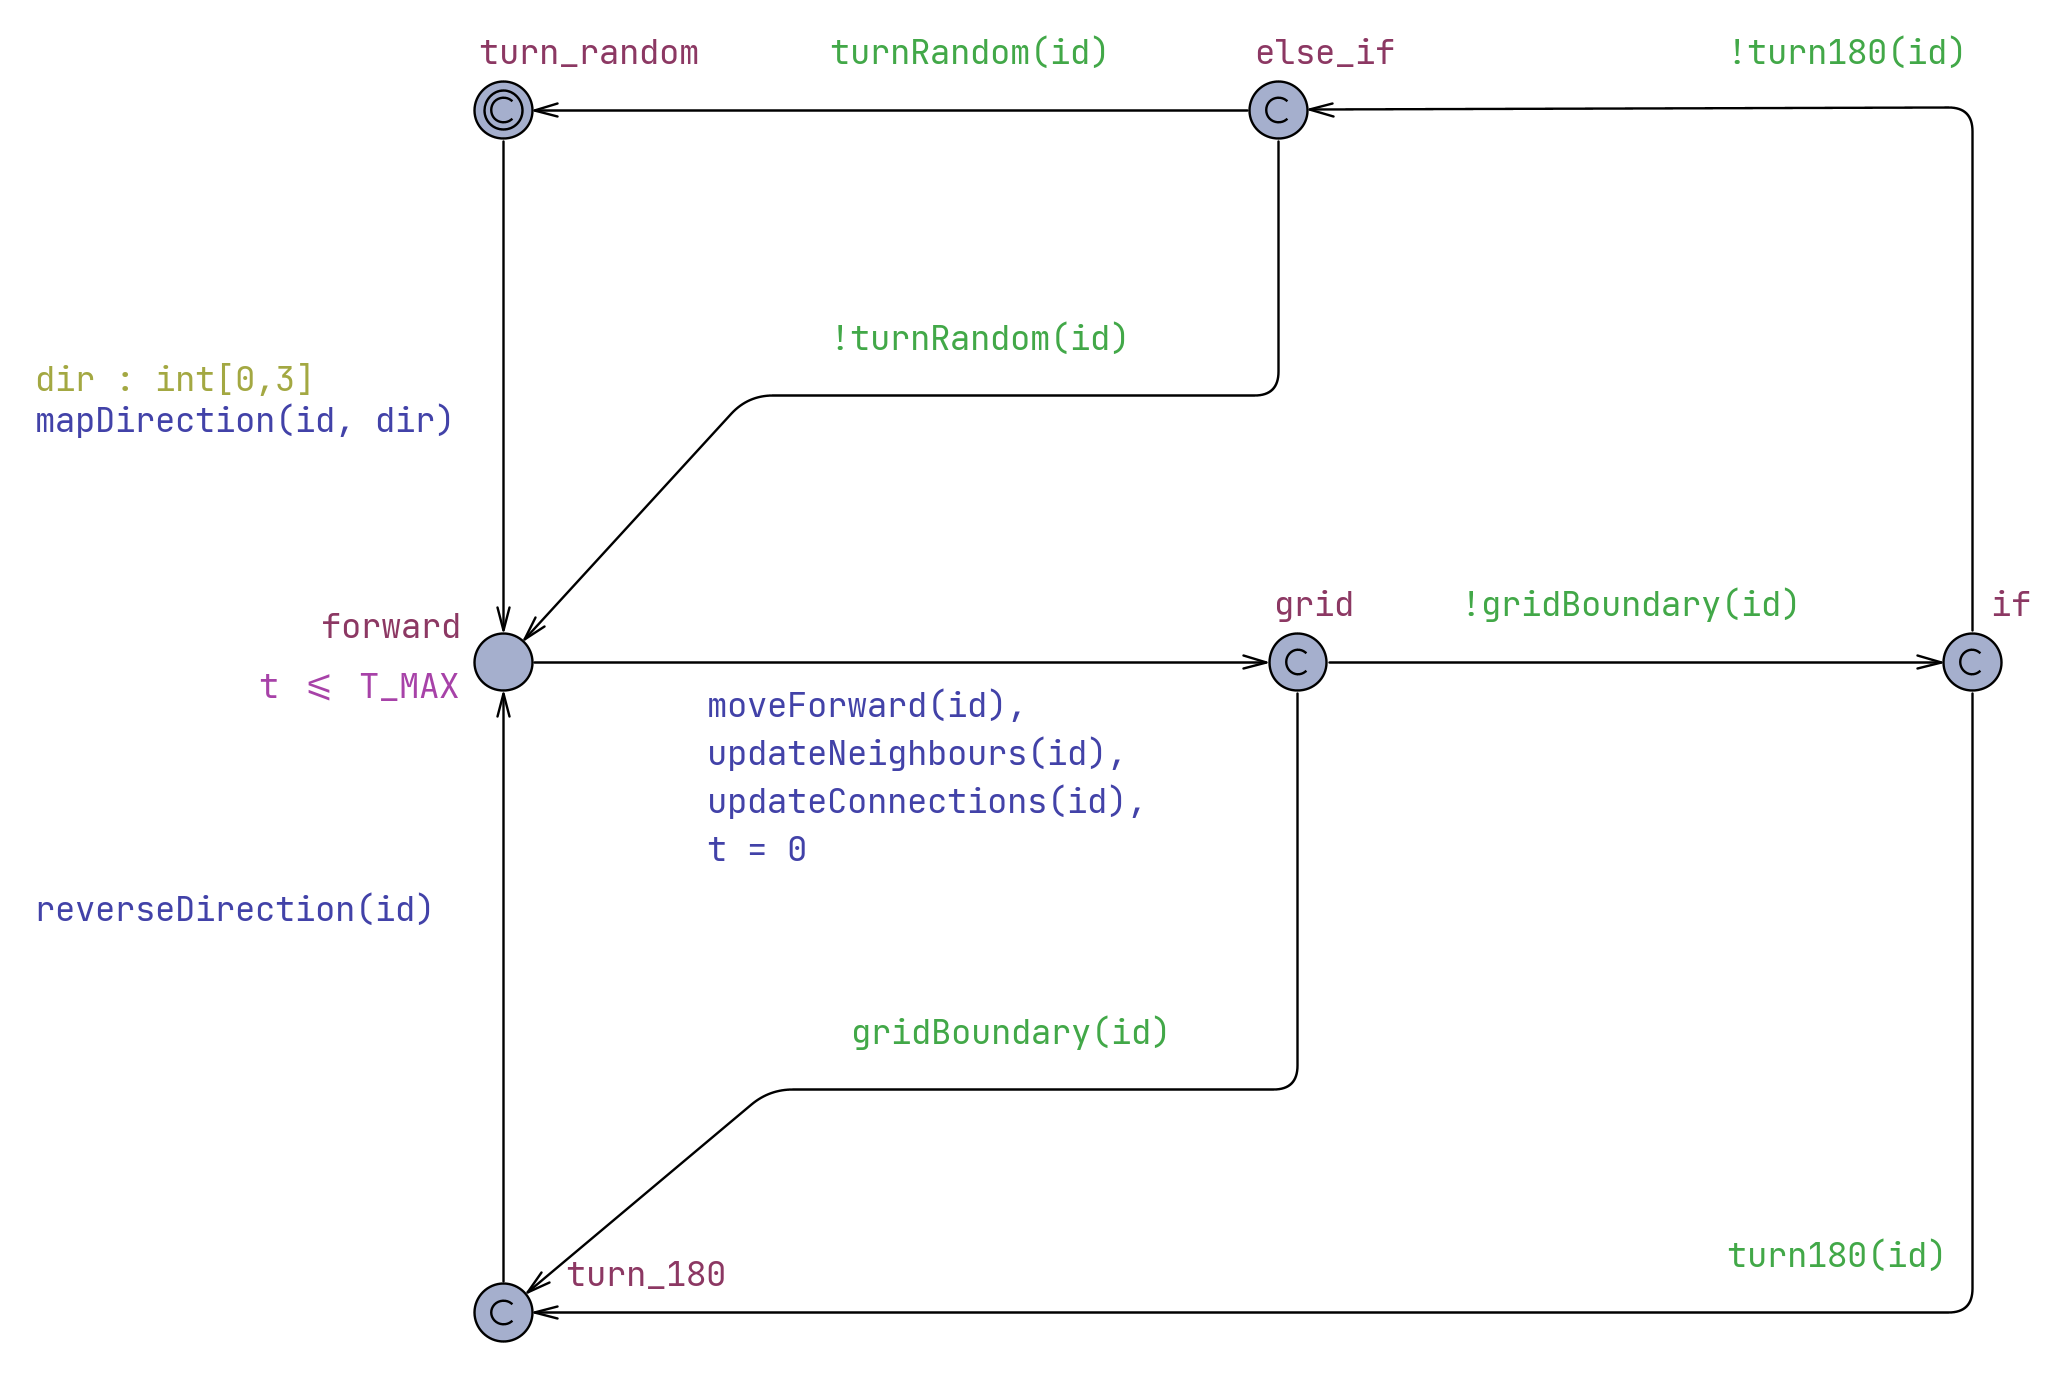
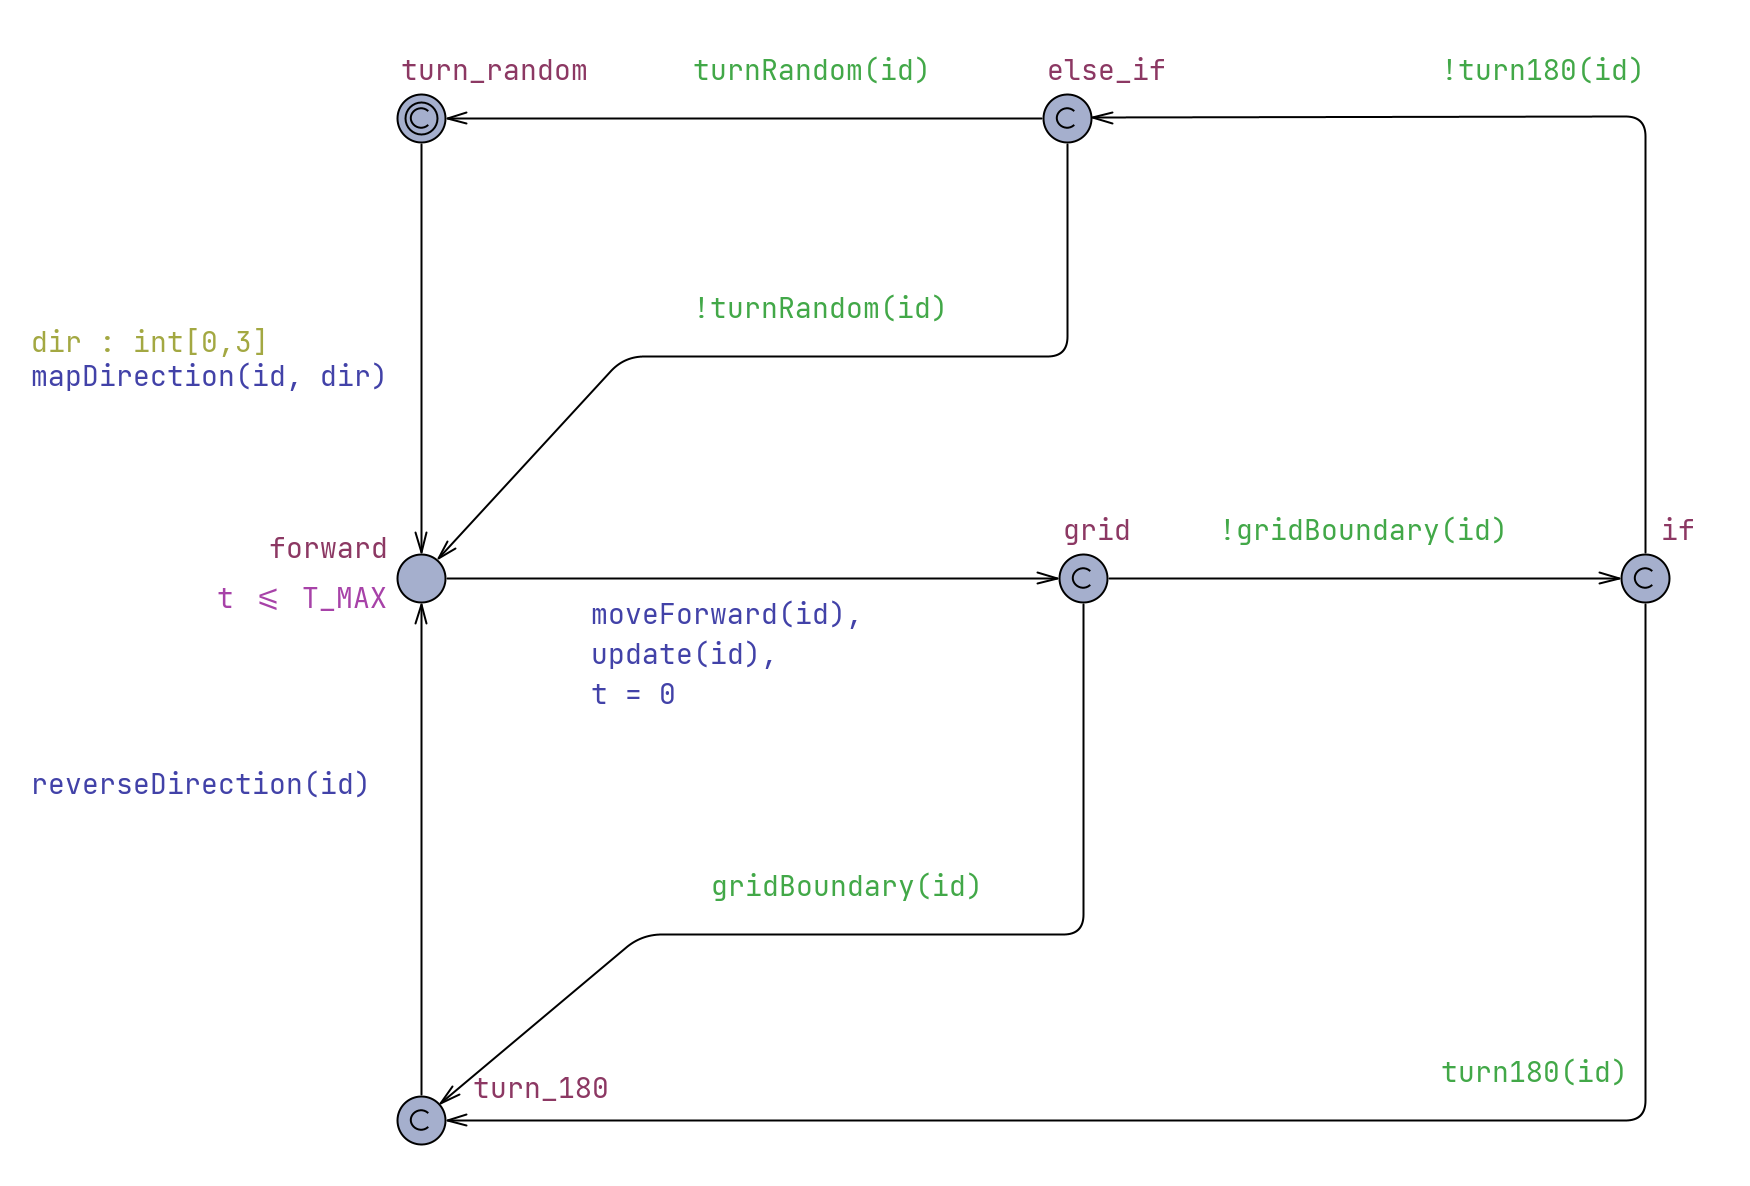
Week 44: unified the code between implementations, updated figures

diff --git a/Latex/Thesis/contents/implementation.tex b/Latex/Thesis/contents/implementation.tex
@@ -110,3 +110,5 @@ The connection part of the implementation focuses on two key tasks: simulating t
 \texttt{shared[N]} - number of shared neighbours with the lost neighbours;\\
 \texttt{k[N]} - number of connections for each robot;\\
 \texttt{last\_k[N]} - number of last connections for each robot;\\
+\\
+The \texttt{update} function updates all of the above data structures for a given robot when provided with its \texttt{id}. It utilizes the following functions to split the process into logical steps: \texttt{updateNeighbours}, \texttt{lostNeighbours}, \texttt{sharedNeighbours}, \texttt{updateConnections}. It determines the neighbors of the robot based on their positions and signal radius. It checks whether the robot has lost any of the neighbors and if yes it determines how many neighbors are still connected to the lost robot. Finally the function updates current and previous number of connections.

diff --git a/Thesis/Notes/Implementing Beta-Algorithm.md b/Thesis/Notes/Implementing Beta-Algorithm.md
@@ -208,3 +208,27 @@ chan done;              // Robots tell clock that it reached forward state
 
 Verified as true:
 `A[] forall(i : int[0, N-1]) k[i] != 0 or last_k[i] != 0`
+
+
+### Check the implementation of counting shared neighbours as this is a crucial element of the algorithm!
+
+This part of `sharedNeighbours` seems wrong because.
+Robot `id` has lost robot `i` and then we are accessing the neighbours list of robot `i` which should not be possible as we are no longer connected to it: `neighbours[i][j]`.
+
+```c++
+for (i = 0; i < N; i++){
+        if (lost_neighbours[id][i] == 1){
+            for (j = 0; j < N; j++){
+                if (
+		                neighbours[id][j] == 1 
+		                && neighbours[i][j] == 1
+	                )
+	            {
+                    shared_neighbours[id][j] = 1;
+                } else {
+                    shared_neighbours[id][j] = 0;
+                }
+            }
+        }
+    }
+```
